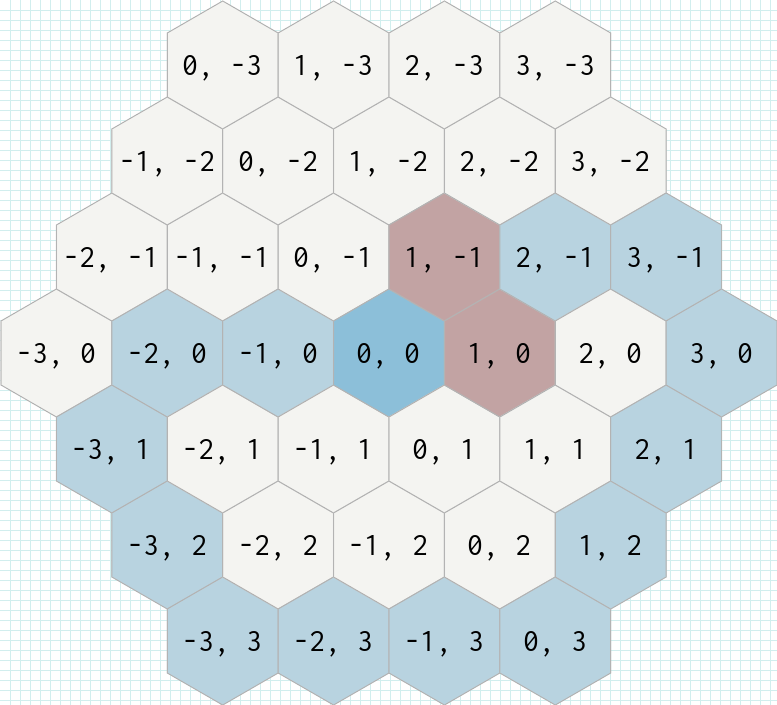
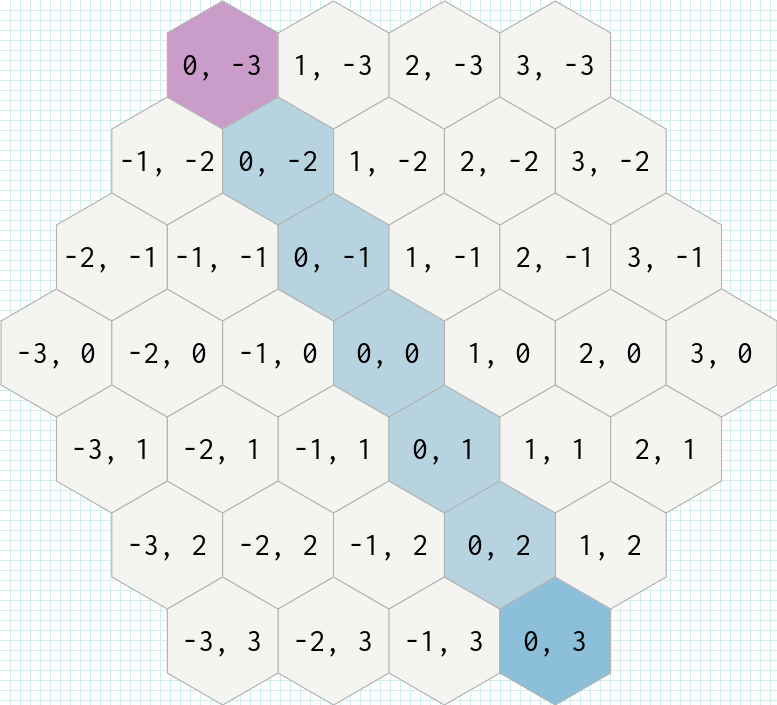
fix DFS

diff --git a/spec/lib/rhex/dfs_path_spec.rb b/spec/lib/rhex/dfs_path_spec.rb
@@ -7,17 +7,32 @@ RSpec.describe(Rhex::DfsPath) do
   include GridHelpers
 
   describe "#call" do
-    it "finds a path depth-first" do
-      grid = grid(2)
-      source = Rhex::AxialHex.new(0, 2)
-      target = Rhex::AxialHex.new(1, -1)
+    it "returns the shortest path even when traversing depth-first" do
+      grid = grid(3)
+      source = Rhex::AxialHex.new(0, 3)
+      target = Rhex::AxialHex.new(0, -3)
 
-      path = described_class.new(grid).call(source, target)
+      dfs_path = described_class.new(grid).call(source, target)
+      bfs_path = Rhex::BfsPath.new(grid).call(source, target)
 
-      expect(path.first).to(eq(source))
-      expect(path.last).to(eq(target))
-      expect(path).not_to(be_empty)
-      expect(path.each_cons(2).all? { |a, b| a.distance(b) == 1 }).to(be(true))
+      expected_bfs_path =
+        coords_to_hexes([[0, 3], [0, 2], [0, 1], [0, 0], [0, -1], [0, -2], [0, -3]])
+
+      expect(bfs_path).to(eq(expected_bfs_path))
+      expect(dfs_path).to(eq(expected_bfs_path))
+      expect(bfs_path.each_cons(2).all? { |a, b| a.distance(b) == 1 }).to(be(true))
+      expect(dfs_path.each_cons(2).all? { |a, b| a.distance(b) == 1 }).to(be(true))
+
+      image_configs_path = Rhex.root.join("spec", "fixtures", "image_configs")
+      Rhex::ImageConfigs.load!(image_configs_path)
+
+      dfs_path.each { |hex| hex.image_config ||= Rhex::ImageConfigs.image_config_for(:path) }
+      bfs_path.each { |hex| hex.image_config ||= Rhex::ImageConfigs.image_config_for(:path) }
+
+      source.image_config = Rhex::ImageConfigs.image_config_for(:source)
+      target.image_config = Rhex::ImageConfigs.image_config_for(:target)
+
+      grid.merge(dfs_path).merge([source, target]).to_pic("dfs_path", orientation: :pointy_topped)
     end
 
     context "when obstacles are defined" do
@@ -26,7 +41,7 @@ RSpec.describe(Rhex::DfsPath) do
         Rhex::ImageConfigs.load!(image_configs_path)
       end
 
-      it "avoids obstacles" do
+      it "avoids obstacles with a deterministic path" do
         grid = grid(3)
         source = Rhex::AxialHex.new(0, 0)
         target = Rhex::AxialHex.new(2, -1)
@@ -35,16 +50,20 @@ RSpec.describe(Rhex::DfsPath) do
         path = described_class.new(grid, obstacles: obstacles).call(source, target)
         path.each { |hex| hex.image_config ||= Rhex::ImageConfigs.image_config_for(:path) }
 
+        expected_path =
+          coords_to_hexes([
+            [0, 0], [0, -1], [1, -2], [2, -2], [2, -1],
+          ])
+
         source.image_config = Rhex::ImageConfigs.image_config_for(:source)
         target.image_config = Rhex::ImageConfigs.image_config_for(:target)
 
         grid.merge(obstacles)
           .merge([source, target])
           .merge(path)
-          .to_pic("dfs_path", orientation: :pointy_topped)
+          .to_pic("dfs_path_obstacles", orientation: :pointy_topped)
 
-        expect(path.first).to(eq(source))
-        expect(path.last).to(eq(target))
+        expect(path).to(eq(expected_path))
         expect(path & obstacles).to(be_empty)
         expect(path.each_cons(2).all? { |a, b| a.distance(b) == 1 }).to(be(true))
       end

diff --git a/spec/lib/rhex/bfs_path_spec.rb b/spec/lib/rhex/bfs_path_spec.rb
@@ -7,21 +7,28 @@ RSpec.describe(Rhex::BfsPath) do
   include GridHelpers
 
   describe "#call" do
-    it "finds the shortest path" do
-      grid = grid(2)
-      source = Rhex::AxialHex.new(0, 2)
-      target = Rhex::AxialHex.new(0, -2)
+    it "finds the shortest path on the same grid as DFS for comparison" do
+      grid = grid(3)
+      source = Rhex::AxialHex.new(0, 3)
+      target = Rhex::AxialHex.new(0, -3)
 
       shortest_path = described_class.new(grid).call(source, target)
 
-      expect(shortest_path)
-        .to(contain_exactly(
-          source,
-          Rhex::AxialHex.new(0, 1),
-          Rhex::AxialHex.new(0, 0),
-          Rhex::AxialHex.new(0, -1),
-          target
-        ))
+      expected_shortest_path =
+        coords_to_hexes([[0, 3], [0, 2], [0, 1], [0, 0], [0, -1], [0, -2], [0, -3]])
+
+      expect(shortest_path).to(eq(expected_shortest_path))
+
+      image_configs_path = Rhex.root.join("spec", "fixtures", "image_configs")
+      Rhex::ImageConfigs.load!(image_configs_path)
+
+      shortest_path.each { |hex| hex.image_config ||= Rhex::ImageConfigs.image_config_for(:path) }
+      source.image_config = Rhex::ImageConfigs.image_config_for(:source)
+      target.image_config = Rhex::ImageConfigs.image_config_for(:target)
+
+      grid.merge(shortest_path)
+        .merge([source, target])
+        .to_pic("bfs_path", orientation: :pointy_topped)
     end
 
     context "when obstacles are defined" do
@@ -49,18 +56,16 @@ RSpec.describe(Rhex::BfsPath) do
 
         expected_shortest_path =
           coords_to_hexes([
-            [1, 1], [1, 0], [0, 0], [0, -1], [1, -2], [2, -2], [3, -2], [3, -1], [3, 0],
-            [3, 1], [2, 2], [1, 3], [0, 3], [-1, 3], [-2, 3], [-3, 4], [-4, 5], [-5, 5],
+            [1, 1], [0, 1], [0, 0], [0, -1], [1, -2], [2, -2], [3, -2], [3, -1], [3, 0],
+            [3, 1], [2, 2], [1, 3], [0, 4], [-1, 5], [-2, 5], [-3, 5], [-4, 5], [-5, 5],
           ], image_config: Rhex::ImageConfigs.image_config_for(:path))
 
         grid.merge(obstacles)
           .merge(expected_shortest_path)
           .merge([source, target])
-          .to_pic("bfs_path", orientation: :pointy_topped)
+          .to_pic("bfs_path_obstacles", orientation: :pointy_topped)
 
-        expect(shortest_path.first).to(eq(source))
-        expect(shortest_path.last).to(eq(target))
-        expect(shortest_path.size).to(eq(expected_shortest_path.size))
+        expect(shortest_path).to(eq(expected_shortest_path))
         expect(shortest_path & obstacles).to(be_empty)
         expect(shortest_path).to(all(satisfy { |hex| grid.include?(hex) }))
         expect(shortest_path.each_cons(2).all? { |a, b| a.distance(b) == 1 }).to(be(true))

diff --git a/lib/rhex/dfs_path.rb b/lib/rhex/dfs_path.rb
@@ -19,24 +19,35 @@ module Rhex
 
       return [source] if source == target
 
-      visited = { [source.q, source.r] => true }
+      best_path = nil
+      visited = { [source.q, source.r] => 1 } # store shortest depth seen so far
       stack = [[source, [source]]]
 
       until stack.empty?
         current, path = stack.pop
-        return path if current == target
+        if current == target
+          best_path = path if best_path.nil? || path.length < best_path.length
+          next
+        end
+
+        # prune branches that are already longer than the best we have
+        next if best_path && path.length >= best_path.length
 
         ordered_neighbors(current, target).each do |neighbor|
           key = [neighbor.q, neighbor.r]
-          next if visited.key?(key) || obstacle?(neighbor)
+          next if obstacle?(neighbor)
 
-          visited[key] = true
+          next_length = path.length + 1
+          # allow revisit only if we found a shorter path to the same node
+          next if visited.key?(key) && visited[key] <= next_length
+
+          visited[key] = next_length
           next_hex = grid_hex_for(neighbor)
           stack.push([next_hex, path + [next_hex]])
         end
       end
 
-      raise PathNotFoundError
+      best_path || (raise PathNotFoundError)
     end
 
     private
